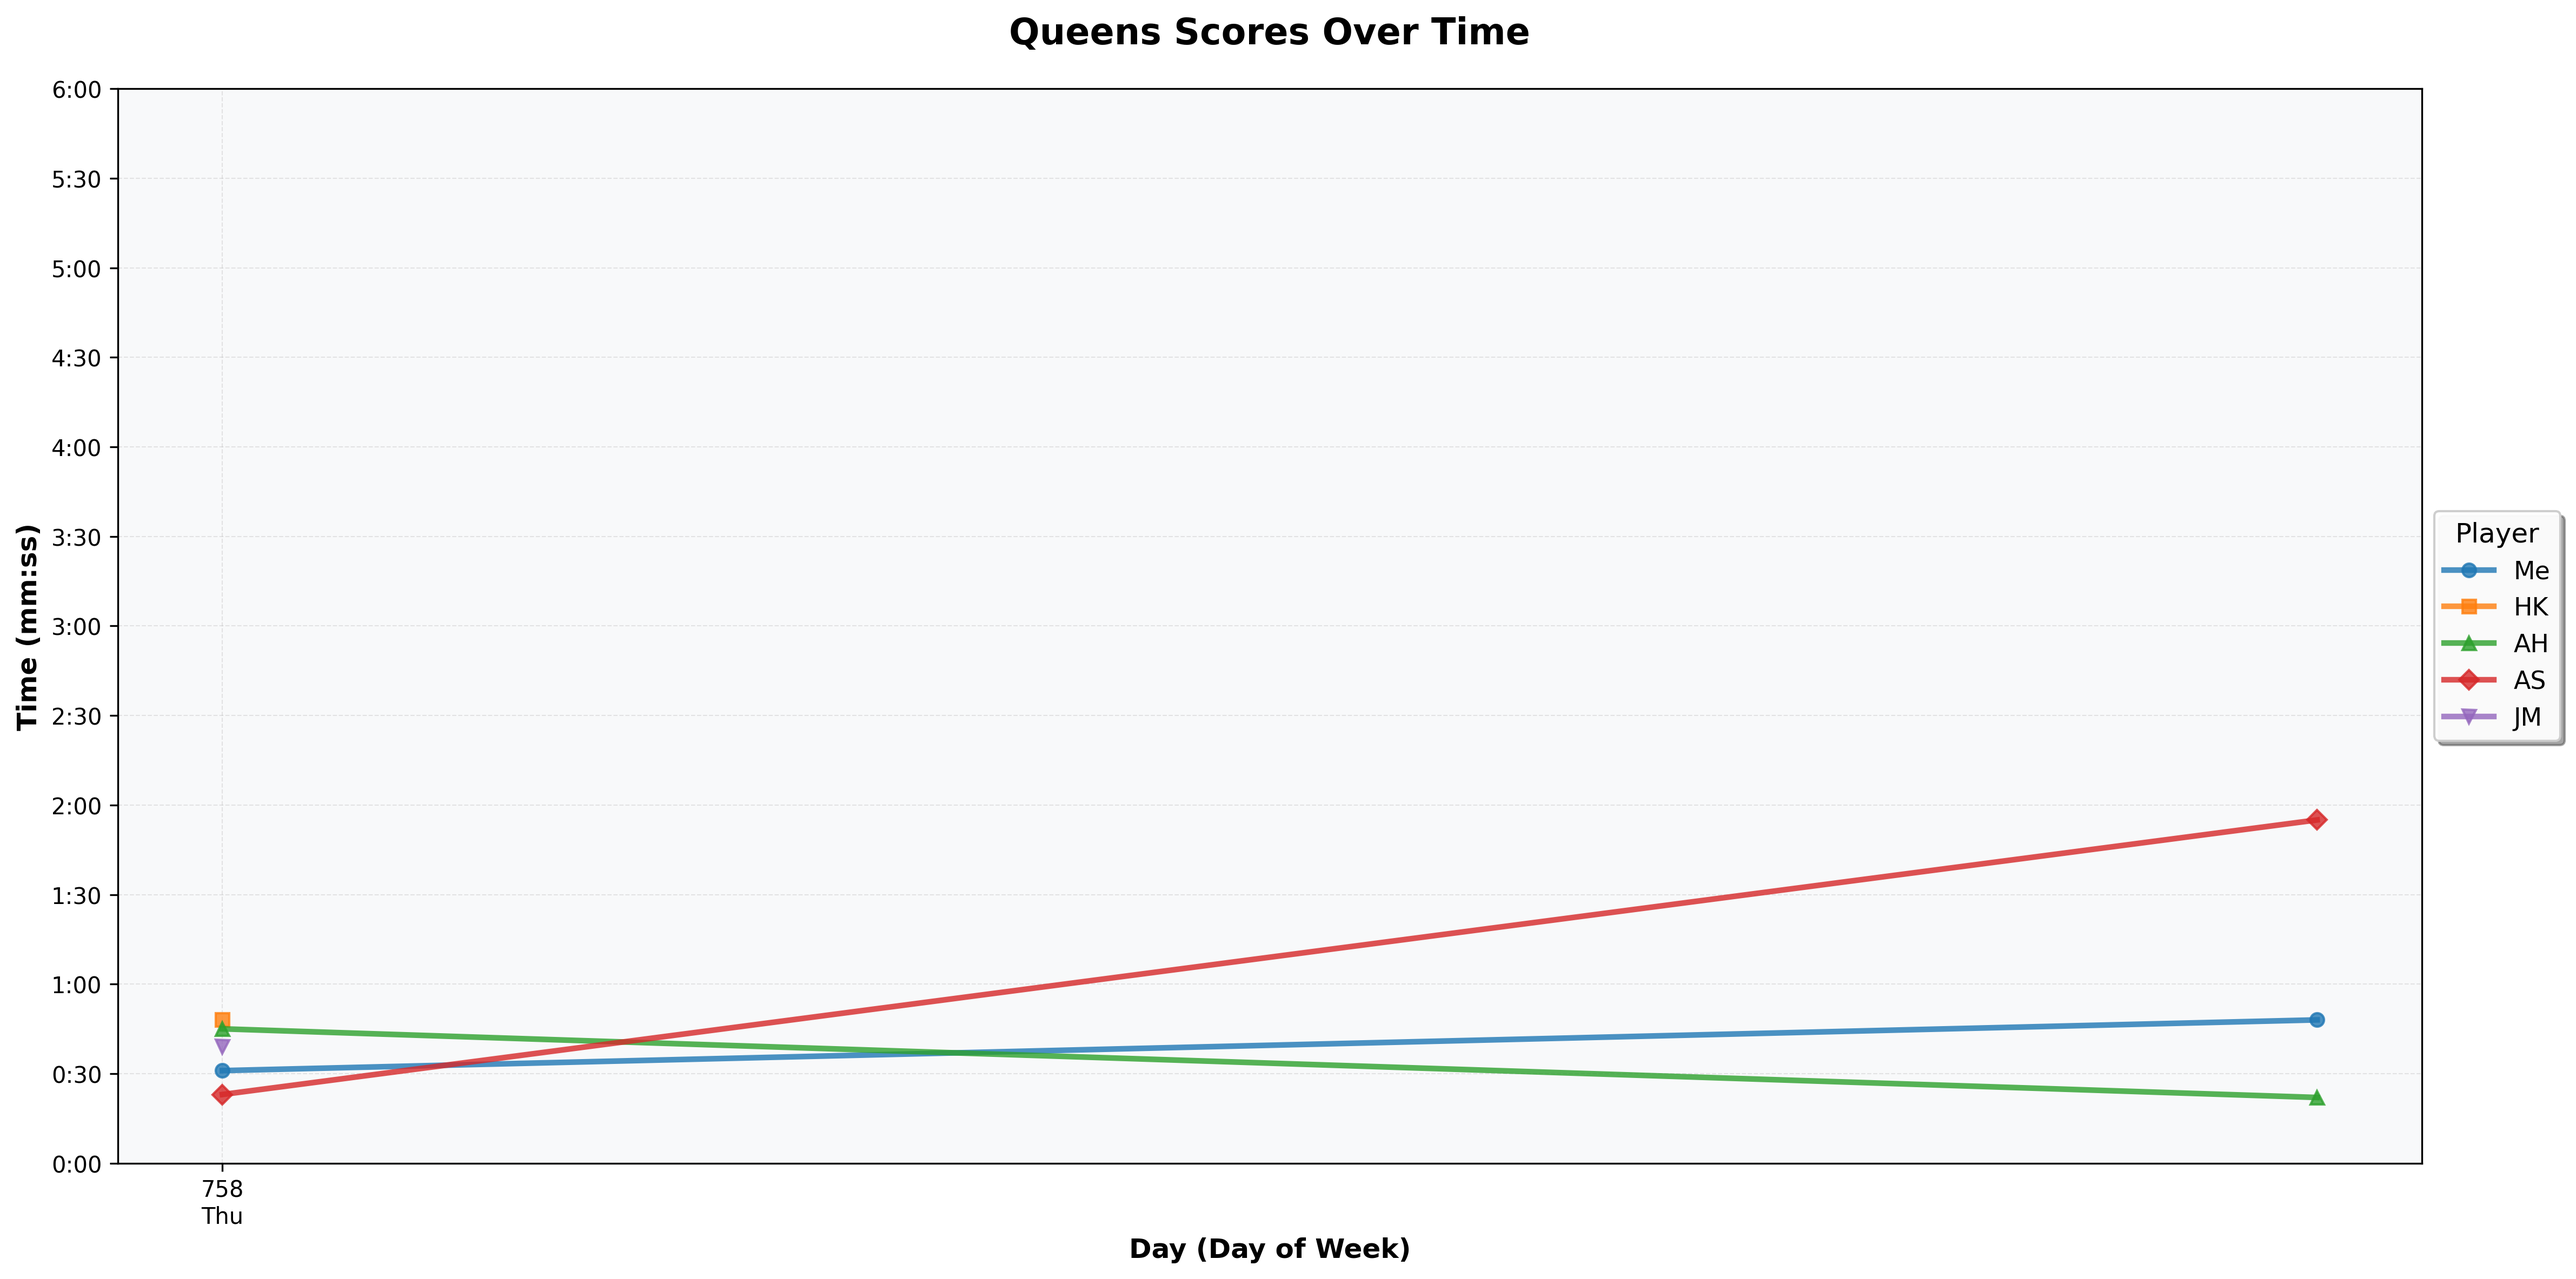
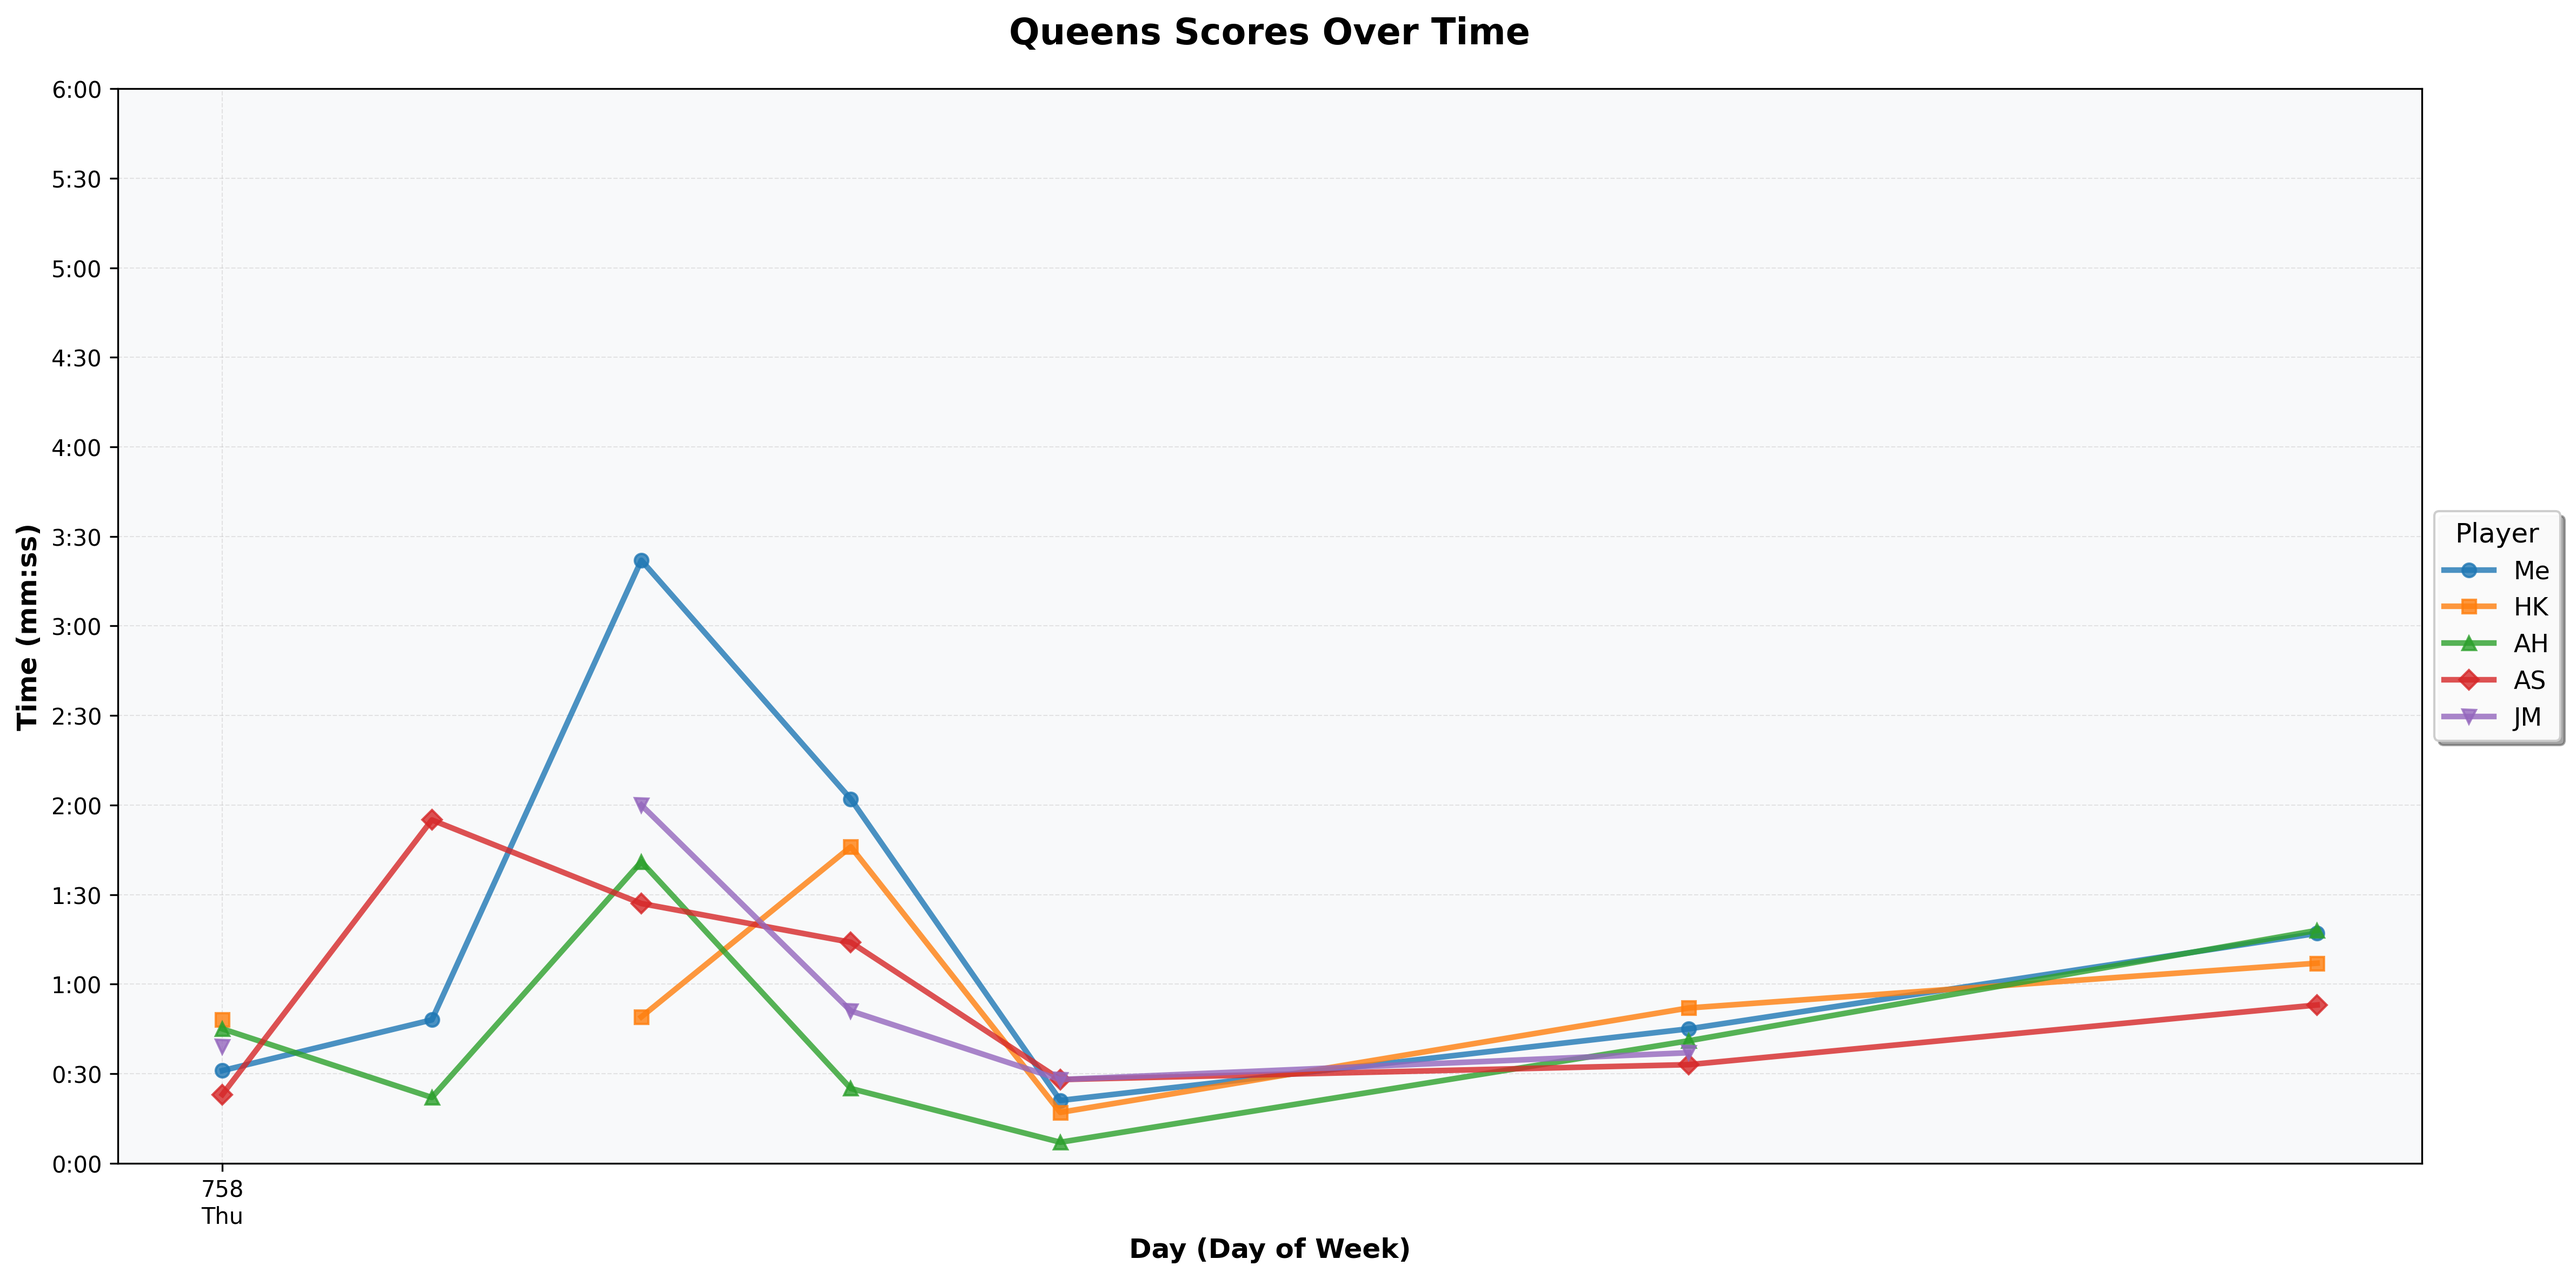
Removed hard coding of names

diff --git a/Queens/Logic/plot_scores.py b/Queens/Logic/plot_scores.py
@@ -106,7 +106,7 @@ def write_csv(results):
     file_exists = csv_file.exists()
 
     # Define the column order explicitly:
-    columns = ["Day", "DoW", "Me", "HK", "AH", "AS", "JM", "Backtracking"]
+    columns = ["Day", "DoW"] + list(alias_dict.values())
 
     with open(csv_file, "a", newline="") as f:
         writer = csv.DictWriter(f, fieldnames=columns)
